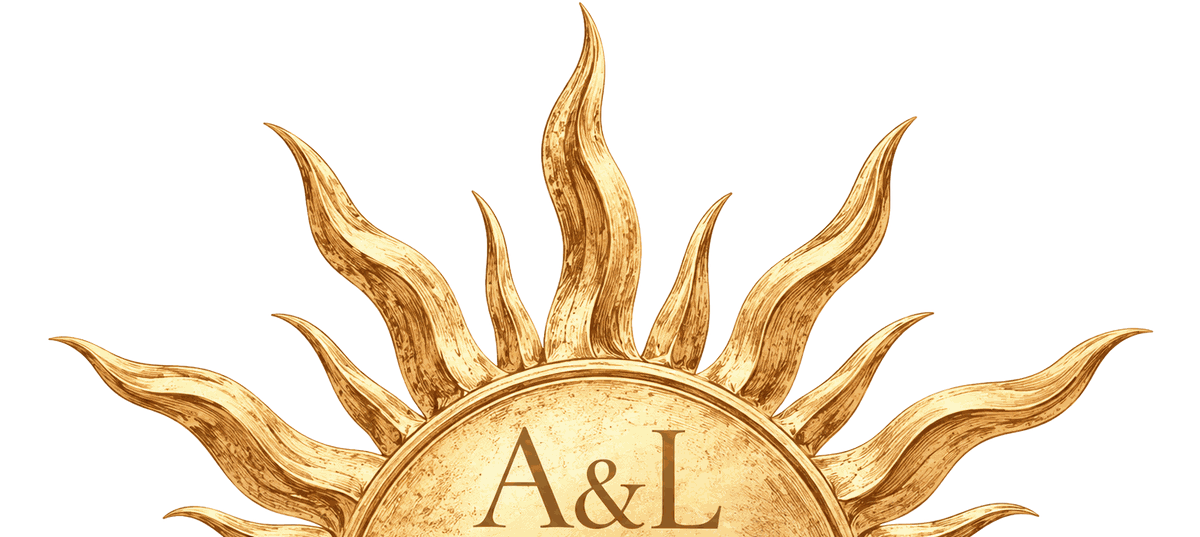
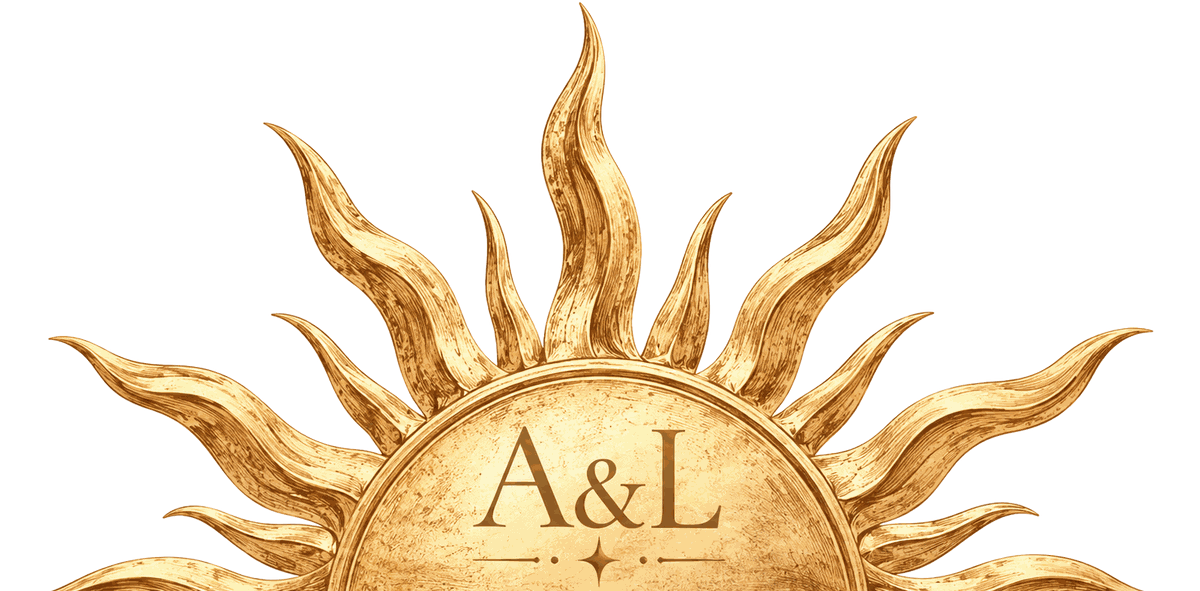
Couper le soleil de fin juste sous son ornement, au ras de la page
L'ornement sous les initiales est entier, seuls le filet et la base plate
du disque partent. Le bas de l'image est le bas de la page.

Claude-Session: https://claude.ai/code/session_01L1KSdpdw8eBMkTSTbBFb4v

diff --git a/src/content/assets.ts b/src/content/assets.ts
@@ -14,7 +14,7 @@ export const assets = {
   babyA: { src: '/images/baby-adham.png', width: 350, height: 560 },
   babyB: { src: '/images/baby-lara.png', width: 526, height: 560 },
   /** Demi-soleil de fin de page, dessiné par Adham, initiales gravées dans l'image. */
-  sunEnd: { src: '/images/sun-end.png', width: 1200, height: 537 },
+  sunEnd: { src: '/images/sun-end.png', width: 1200, height: 591 },
   /** Film d'intro (enveloppe, sceau, carte), sans piste audio. Le poster est sa première image : l'enveloppe fermée de la gate. */
   intro: { src: '/video/intro.mp4', poster: '/video/intro-poster.jpg', width: 720, height: 1280 },
 } as const
